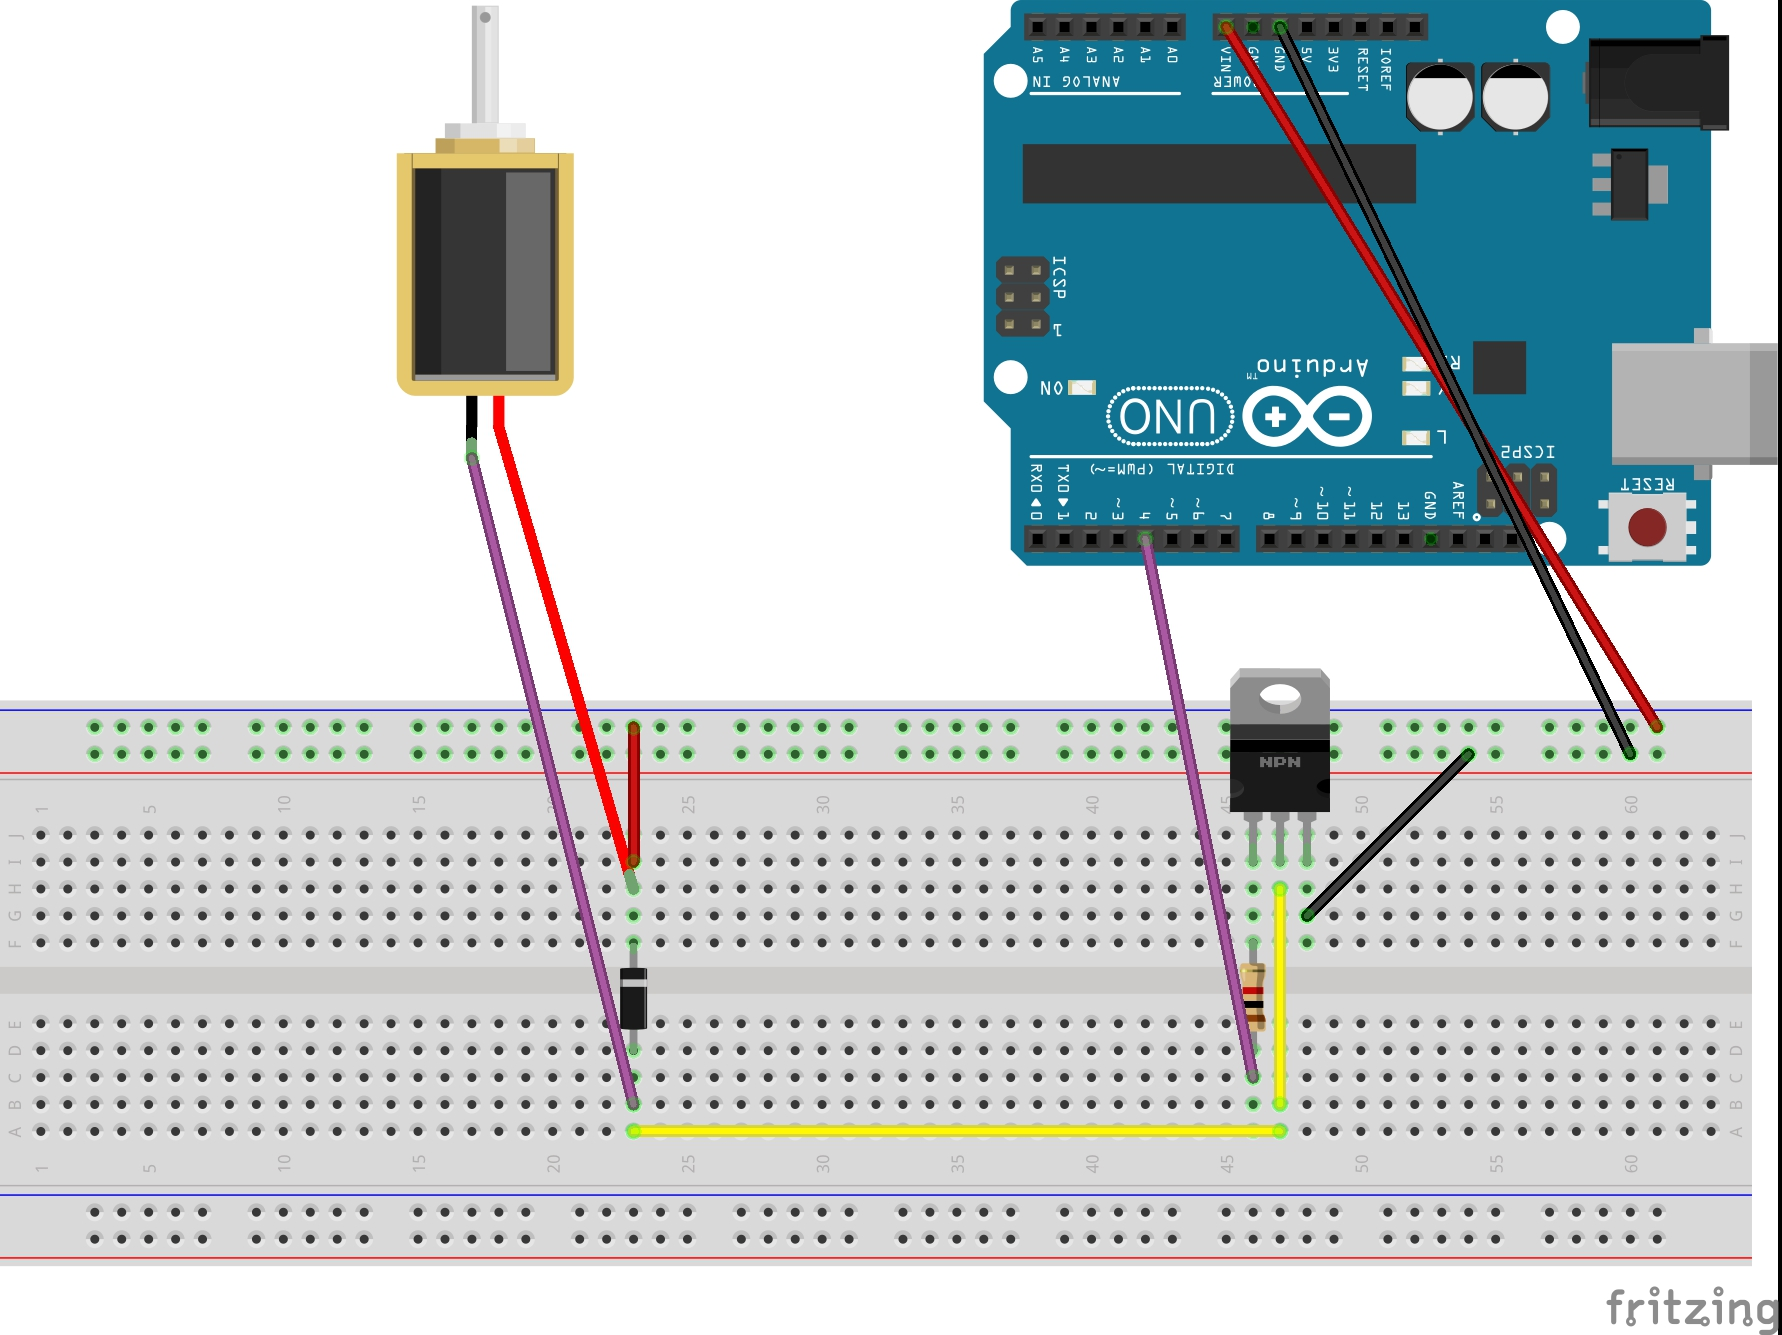
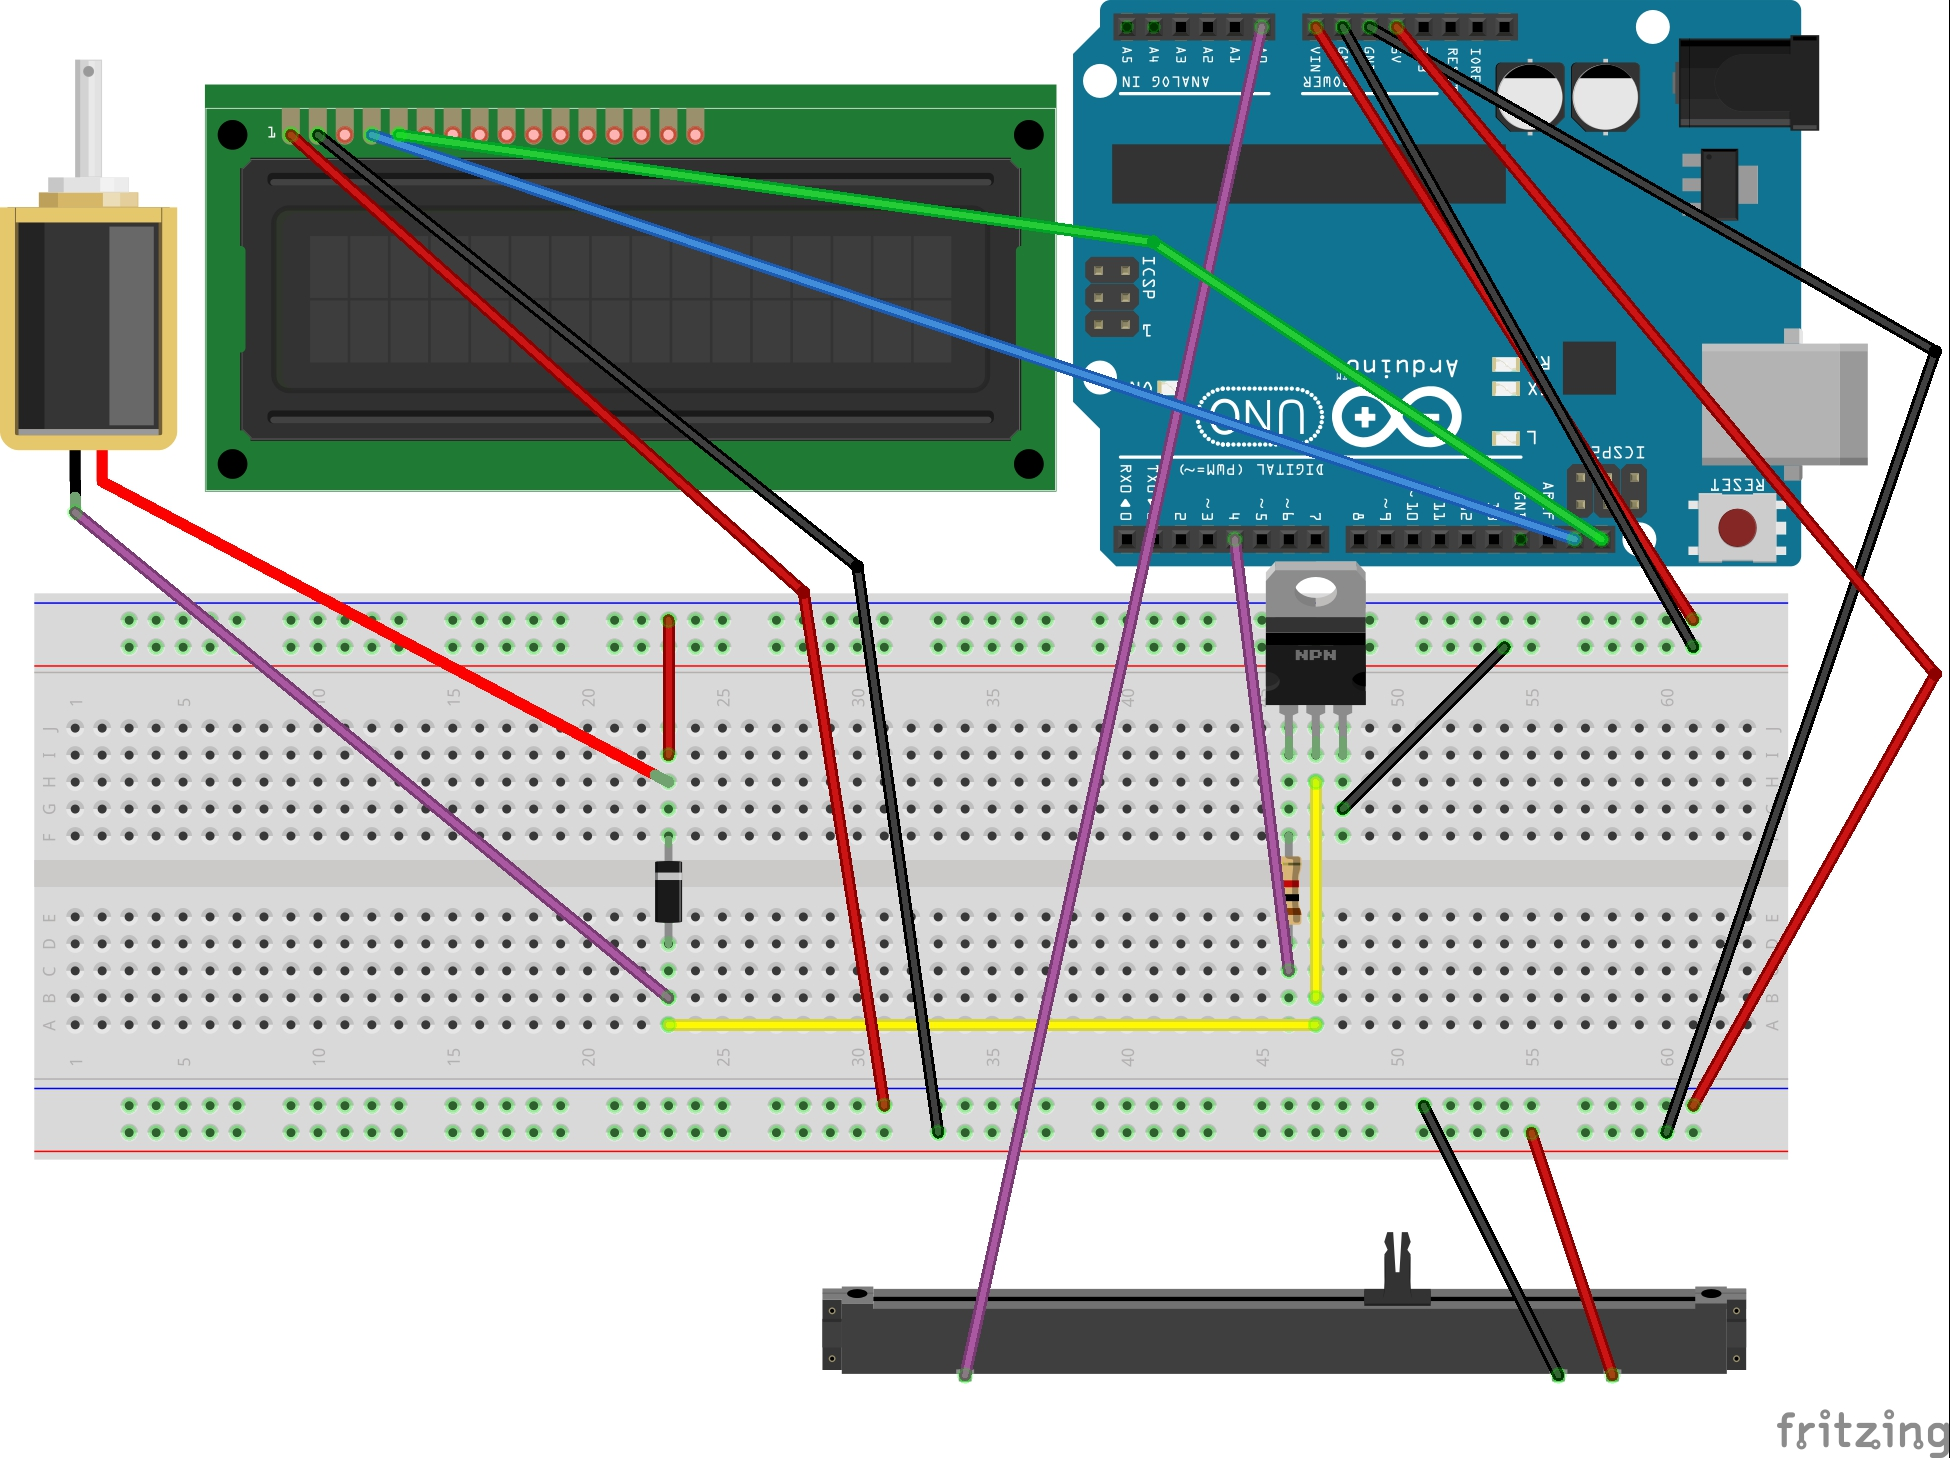
slide pot and control for code

diff --git a/README.md b/README.md
@@ -24,6 +24,11 @@
 ## Wiring
 <img src="./wiring.jpg" style="max-width: 700px !important; width: 100vw;" />
 
+#### Notes -
+#### * LCD in  image not accurate, I used a serial lcd
+ - G: SLA, Blu: SDA, R: HOT, Bla: Ground
+#### ** Slider Pot in the image is not accurate, I used a leftover audio tapered slide
+
 ### TODO
 - add LCD
 - add rotary pots or buttons
